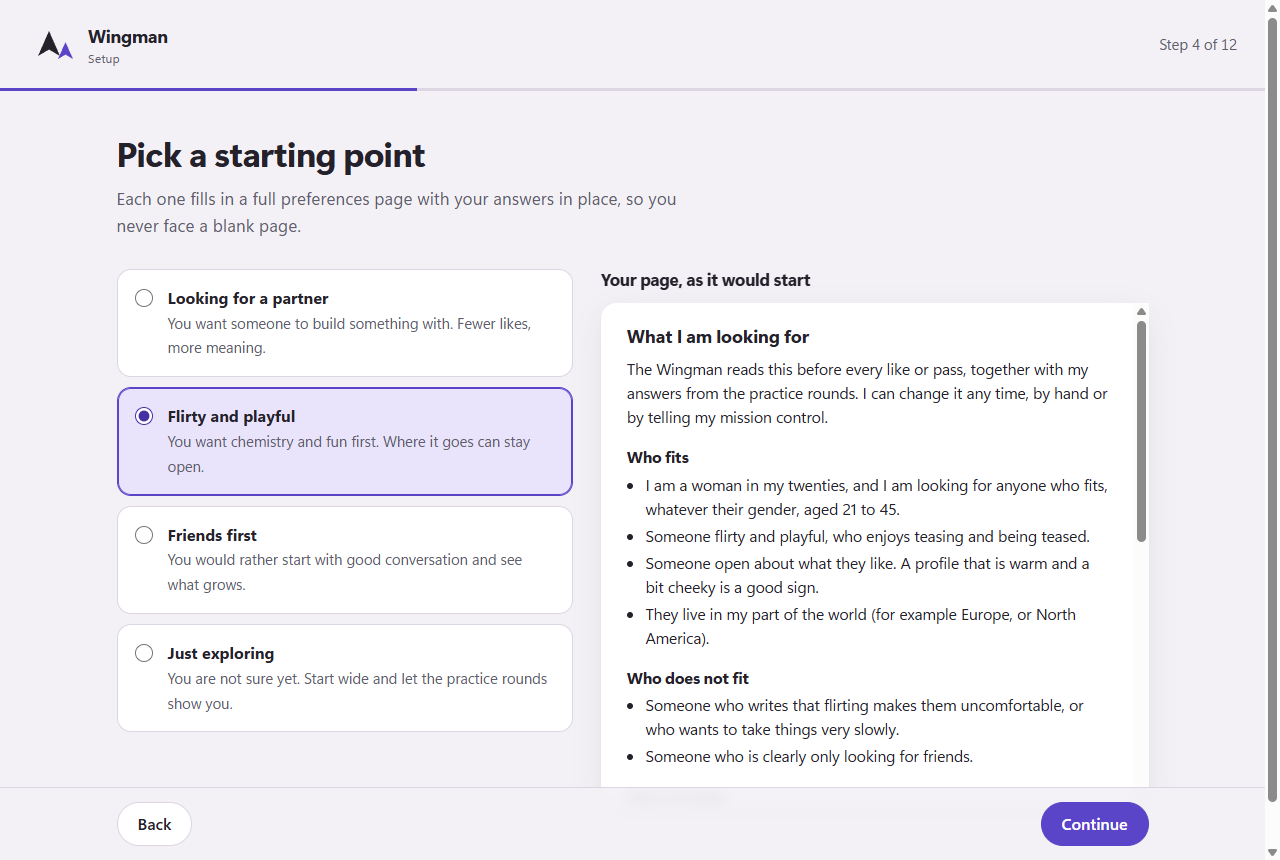
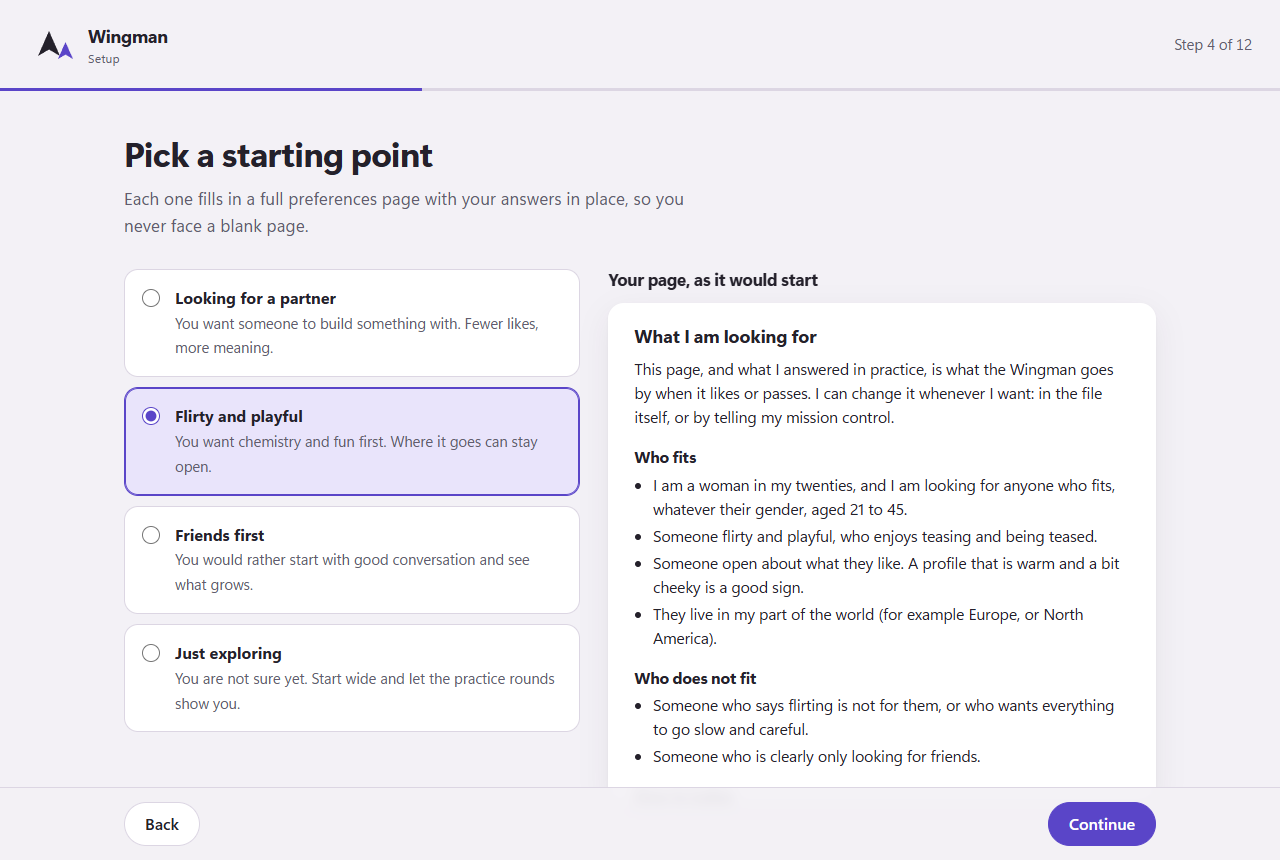
Starters, the template and the judge say their lessons in new words; the wizard picture shows the new starter text

diff --git a/lib/desk/app.html b/lib/desk/app.html
@@ -767,7 +767,7 @@ async function prefsPage(main) {
     say(r.text);
   };
   main.replaceChildren(h("div", { class: "page" },
-    h("div", { class: "page-head" }, h("div", {}, h("h1", { text: "Preferences" }), h("p", { text: "What I read before every like or pass, together with your practice answers. Plain sentences work best." }))),
+    h("div", { class: "page-head" }, h("div", {}, h("h1", { text: "Preferences" }), h("p", { text: "What I go by, with your practice answers, whenever I like or pass. Plain sentences work best." }))),
     h("div", { class: "prefs-grid" },
       h("section", { class: "panel stack" },
         h("div", { class: "field" }, h("label", { for: "prefs", text: "Who fits, who does not, how to judge, how you write" }), prefs),

diff --git a/starters/flirty-and-playful.md b/starters/flirty-and-playful.md
@@ -5,8 +5,8 @@ pitch: You want chemistry and fun first. Where it goes can stay open.
 ---
 # What I am looking for
 
-The Wingman reads this before every like or pass, together with my answers from the practice
-rounds. I can change it any time, by hand or by telling my mission control.
+This page, and what I answered in practice, is what the Wingman goes by when it likes or passes.
+I can change it whenever I want: in the file itself, or by telling my mission control.
 
 ## Who fits
 
@@ -19,14 +19,14 @@ rounds. I can change it any time, by hand or by telling my mission control.
 ## Who does not fit
 
 {deal_breakers}
-- Someone who writes that flirting makes them uncomfortable, or who wants to take things very slowly.
+- Someone who says flirting is not for them, or who wants everything to go slow and careful.
 - Someone who is clearly only looking for friends.
 
 ## How to judge
 
-Be smart, not black and white. A box someone ticked is a signal, not a verdict: their pronouns,
-their wording and the rest of the profile can confirm it or contradict it. Nothing in the profile
-is ignored, and no single detail decides on its own.
+Look at the whole person. A ticked box is a hint to check, not the final word: how they write,
+their pronouns and everything else they show can back it up or undo it. Read all of it, and let
+no single detail settle it alone.
 
 Read between the lines. What a profile hints at counts as much as what it says. "Not here for
 drama" says something; so does a bio that is all jokes.
@@ -35,7 +35,7 @@ Combine signals. Someone very flirty can fit even when other details are a littl
 is not flirty at all and wants something very traditional probably does not fit, even when
 everything else looks right.
 
-Be selective. Pass when unsure or when the profile is too thin to tell.
+Be choosy. When in doubt, or when there is too little to go on, it is a pass.
 
 ## How I write
 

diff --git a/starters/looking-for-a-partner.md b/starters/looking-for-a-partner.md
@@ -5,8 +5,8 @@ pitch: You want someone to build something with. Fewer likes, more meaning.
 ---
 # What I am looking for
 
-The Wingman reads this before every like or pass, together with my answers from the practice
-rounds. I can change it any time, by hand or by telling my mission control.
+This page, and what I answered in practice, is what the Wingman goes by when it likes or passes.
+I can change it whenever I want: in the file itself, or by telling my mission control.
 
 ## Who fits
 
@@ -26,12 +26,12 @@ rounds. I can change it any time, by hand or by telling my mission control.
 
 ## How to judge
 
-Be smart, not black and white. A box someone ticked is a signal, not a verdict: their pronouns,
-their wording and the rest of the profile can confirm it or contradict it. Nothing in the profile
-is ignored, and no single detail decides on its own.
+Look at the whole person. A ticked box is a hint to check, not the final word: how they write,
+their pronouns and everything else they show can back it up or undo it. Read all of it, and let
+no single detail settle it alone.
 
-Be selective. Like only people who clearly fit. Pass when unsure, or when the profile is too thin
-to tell. A like should mean something.
+Be choosy. Like only people who clearly fit. When in doubt, or when there is too little to go on,
+it is a pass. A like should mean something.
 
 Two weak signals together can decide what one alone cannot. Distance counts too: someone nearby
 gets a little more benefit of the doubt than someone on another continent.

diff --git a/starters/friends-first.md b/starters/friends-first.md
@@ -5,8 +5,8 @@ pitch: You would rather start with good conversation and see what grows.
 ---
 # What I am looking for
 
-The Wingman reads this before every like or pass, together with my answers from the practice
-rounds. I can change it any time, by hand or by telling my mission control.
+This page, and what I answered in practice, is what the Wingman goes by when it likes or passes.
+I can change it whenever I want: in the file itself, or by telling my mission control.
 
 ## Who fits
 
@@ -24,9 +24,9 @@ rounds. I can change it any time, by hand or by telling my mission control.
 
 ## How to judge
 
-Be smart, not black and white. A box someone ticked is a signal, not a verdict: their pronouns,
-their wording and the rest of the profile can confirm it or contradict it. Nothing in the profile
-is ignored, and no single detail decides on its own.
+Look at the whole person. A ticked box is a hint to check, not the final word: how they write,
+their pronouns and everything else they show can back it up or undo it. Read all of it, and let
+no single detail settle it alone.
 
 Look for warmth and curiosity in how they write. Shared interests count more here than looks or
 distance.

diff --git a/starters/just-exploring.md b/starters/just-exploring.md
@@ -5,8 +5,8 @@ pitch: You are not sure yet. Start wide and let the practice rounds show you.
 ---
 # What I am looking for
 
-The Wingman reads this before every like or pass, together with my answers from the practice
-rounds. I can change it any time, by hand or by telling my mission control.
+This page, and what I answered in practice, is what the Wingman goes by when it likes or passes.
+I can change it whenever I want: in the file itself, or by telling my mission control.
 
 I am still finding out what I want. The practice rounds will teach the Wingman more than this
 page does, so this page starts short on purpose.
@@ -23,8 +23,8 @@ page does, so this page starts short on purpose.
 
 ## How to judge
 
-Be smart, not black and white. A box someone ticked is a signal, not a verdict. Nothing in the
-profile is ignored, and no single detail decides on its own.
+Look at the whole person. A ticked box is a hint to check, not the final word. Read all of the
+profile, and let no single detail settle it alone.
 
 While I am still exploring, lean towards like when a profile is friendly and fits the basics above,
 and tell me why in one plain sentence, so my answers can correct you.
